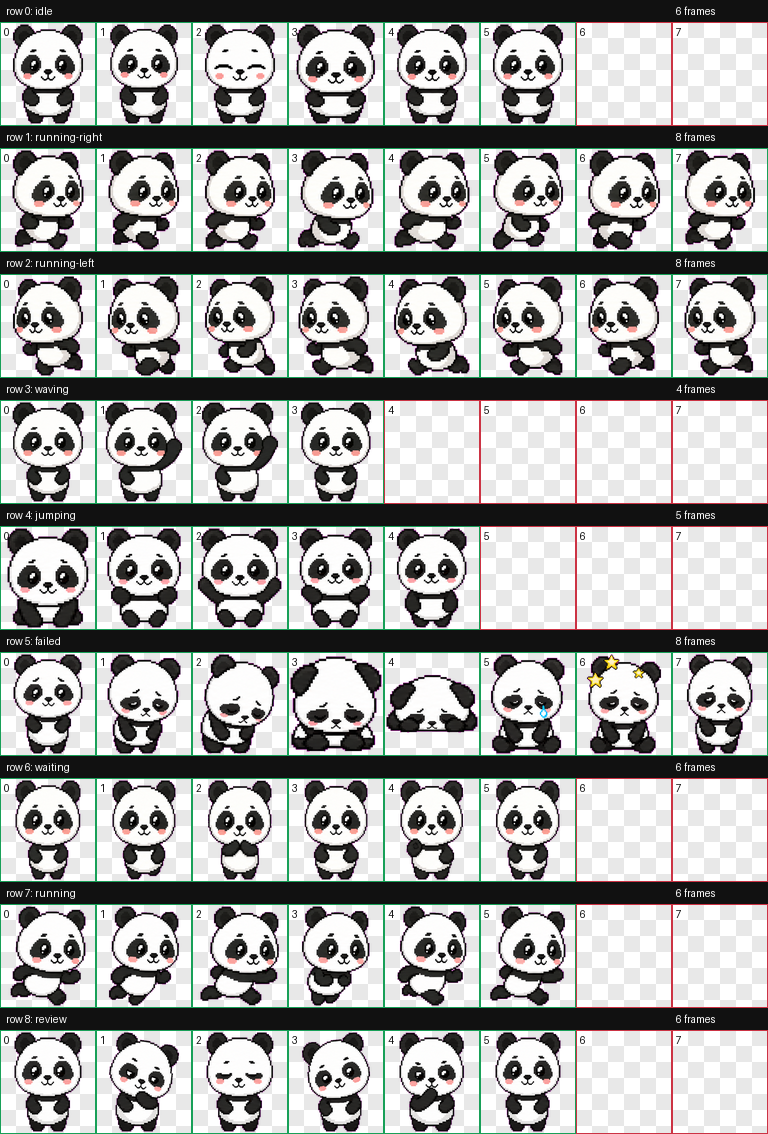
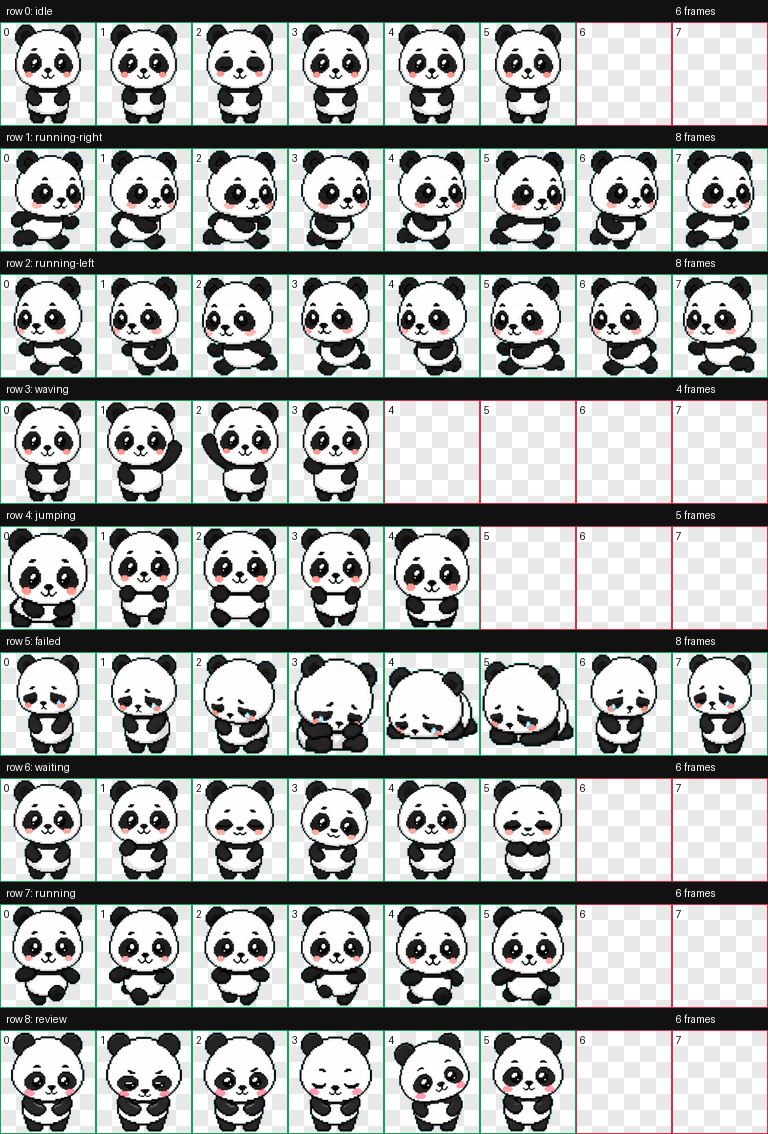
Add Panda v0.2 soft healing animations

Changed region(s): [[0.0, 0.0, 1.0, 1.0]]

diff --git a/README.md b/README.md
@@ -1,8 +1,12 @@
 # Panda Pet
 
-An open-source custom Codex pet: a tiny cute animated panda.
+An open-source custom Codex pet: a soft, healing animated panda.
 
 ![Panda pet contact sheet](preview/contact-sheet.png)
+
+## Personality
+
+Panda v0.2 is designed to feel quiet, warm, and comforting while you code. It keeps the same tiny panda identity, then softens the animation set with gentle breathing, sleepy blinks, small paw gestures, patient waiting, and calm review poses.
 
 ## Try It
 
@@ -31,3 +35,5 @@ This repository packages a cute panda Codex pet so other people can clone it, in
 ## Build Notes
 
 This pet was generated with OpenAI's `hatch-pet` Codex skill. The final package was validated as a Codex-compatible RGBA WebP spritesheet.
+
+Codex custom pet manifests currently expose the pet identity and spritesheet path. Panda v0.2 does not depend on custom hover, click, or petting APIs; the softer feel comes from the existing Codex pet animation states.

diff --git a/CHANGELOG.md b/CHANGELOG.md
@@ -1,0 +1,13 @@
+# Changelog
+
+## v0.2 - Soft Healing Panda
+
+- Refreshed the panda spritesheet with a softer, more healing personality.
+- Added gentler idle, waiting, review, waving, jumping, running, and failed-state animations.
+- Kept the package install path and manifest format unchanged.
+- Added a design spec for the v0.2 visual direction.
+
+## v0.1 - Initial Panda Pet
+
+- Added the first installable Panda Codex pet package.
+- Added atlas validation and contact sheet preview files.
